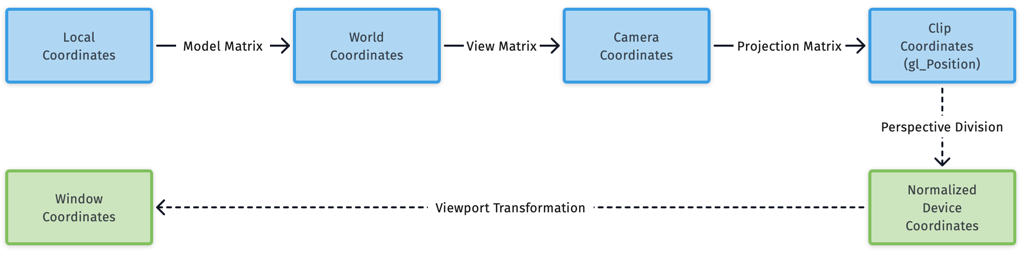
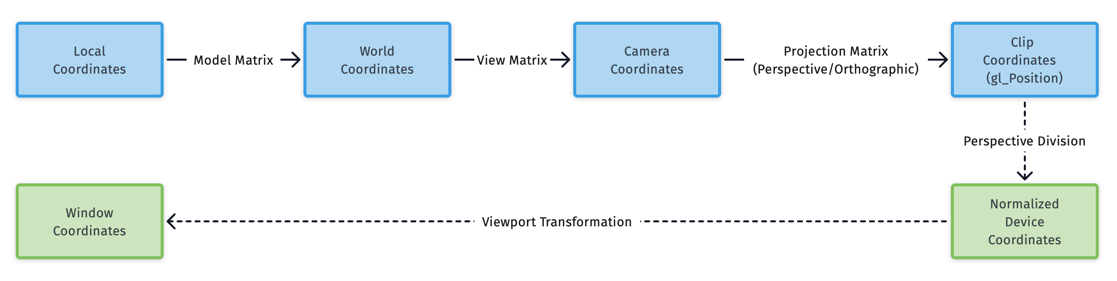
update posts for opengl

Changed region(s): [[0.0, 0.0277, 1.0, 0.4427], [0.0, 0.5534, 1.0, 0.996], [0.8485, 0.4704, 1.0, 0.5257]]

diff --git a/_posts/2020-02-12-beginning-opengl-for-ios-matrix.md b/_posts/2020-02-12-beginning-opengl-for-ios-matrix.md
@@ -71,7 +71,19 @@ class Model {
 
 **3. Projection Matrix**
 
-可以采用 Projection Matrix 来自动计算 w 的值，w 的作用下一步会讲解：
+Projection Matrix 分 Perspective Projection 和 Orthographic Projection，Perspective Projection 中相同大小的物体在越远处看起来越小，Orthographic Projection 中相同大小的物体在远处和近处看起来一样大：
+
+![OpenGL Perspective Orthographic Frustum](/images/opengl-perspective-orthographic-frustum.png)
+
+Orthographic Matrix 如下：
+
+![OpenGL Orthographic Matrix](/images/opengl-orthographic-matrix.png)
+
+这里重点讲解下 Perspective Matrix 如下：
+
+![OpenGL Perspective Matrix](/images/opengl-perspective-matrix.png)
+
+iOS 中可以使用 GLKMatrix4MakePerspective 来计算 Perspective Matrix， Perspective Matrix 左乘坐标点会计算出 w 的值，w 的作用下一步会讲解：
 
 {% highlight swift %}
 extension ViewController {
@@ -91,12 +103,12 @@ extension ViewController {
 
 GLKMatrix4MakePerspective 参数的含义：
 
+![OpenGL Perspective Frustum](/images/opengl-perspective-frustum.png)
+
 | fovyRadians | 如下图中 FOV 表示的垂直视角的角度 |
 | aspect | 可视区域的长宽比率，通常就是屏幕的长宽比 |
 | nearZ | This should be set to the distance to the far plane and must be pos- itive and greater than the distance to the near plane. |
 | farZ | This should be set to the distance to the near plane and must be positive. For example, if this is set to 1, the near plane will be located at a z of -1. |
-
-![OpenGL Perspective Frustum](/images/opengl-perspective-frustum.png)
 
 **4. Perspective Division**
 

diff --git a/_posts/2020-02-10-beginning-opengl-for-ios-vertex-shader-pipeline.md b/_posts/2020-02-10-beginning-opengl-for-ios-vertex-shader-pipeline.md
@@ -203,6 +203,7 @@ func uniformLocation(for name: String) -> GLint {
 ### 整体流程
 
 ![OpenGL Pipeline Overview](/images/opengl-pipeline-overview.png)
+![OpenGL Pipeline Overview 2](/images/opengl-pipeline-overview2.png)
 
 **1. Transfer Vertex Data**
 
